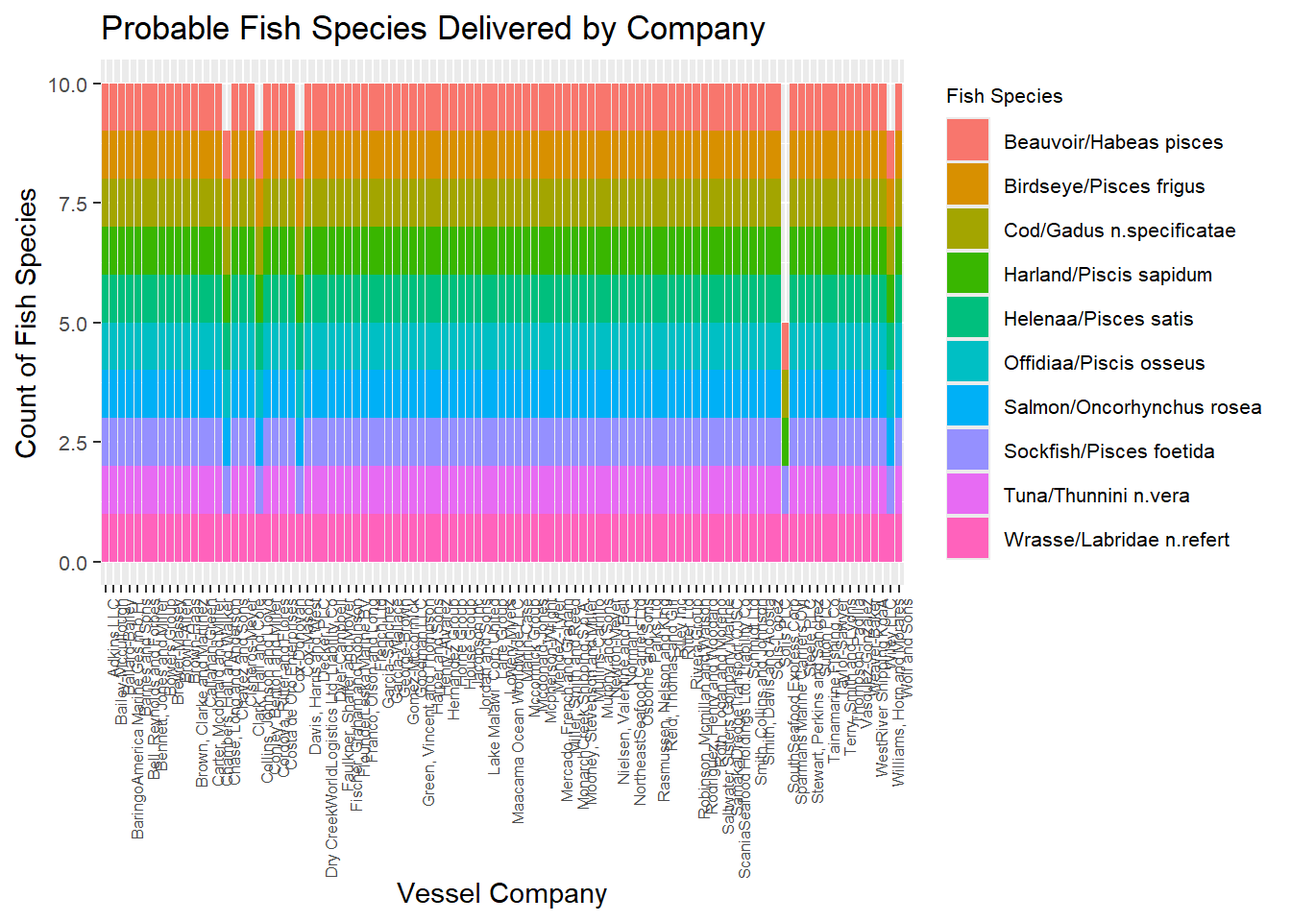
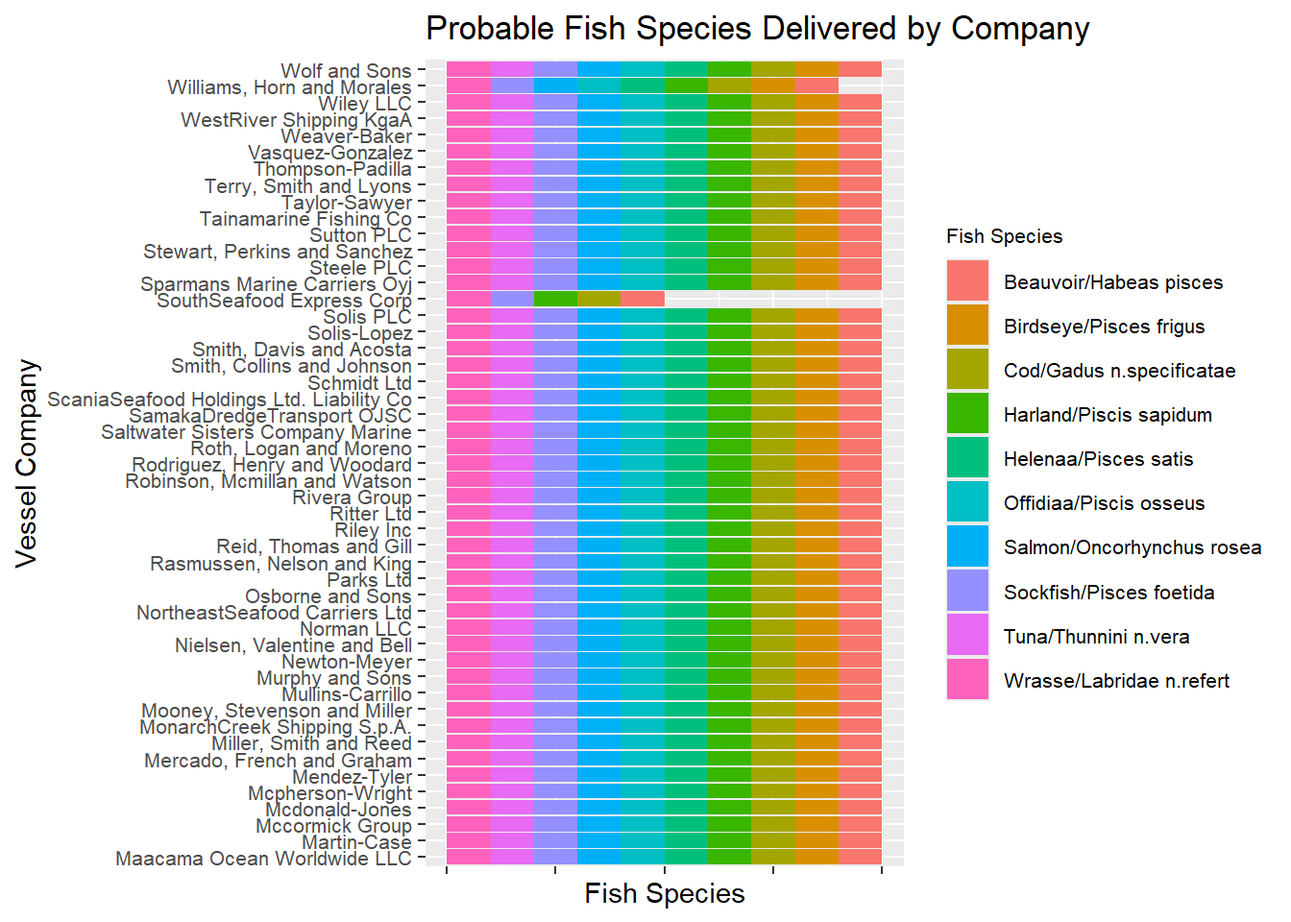
commit Take Home Ex03

diff --git a/_site/Take-home_Ex/Take-home_Ex03/Take-home_Ex03.html b/_site/Take-home_Ex/Take-home_Ex03/Take-home_Ex03.html
@@ -261,10 +261,16 @@ pre > code.sourceCode > span > a:first-child::before { text-decoration: underlin
   </ul></li>
   <li><a href="#visualisation" id="toc-visualisation" class="nav-link" data-scroll-target="#visualisation">3. Visualisation</a>
   <ul class="collapse">
-  <li><a href="#vessels-possible-delivery-content" id="toc-vessels-possible-delivery-content" class="nav-link" data-scroll-target="#vessels-possible-delivery-content">3.1.1 Vessels’ Possible Delivery Content</a></li>
-  <li><a href="#vessels-possible-delivery-content-by-season" id="toc-vessels-possible-delivery-content-by-season" class="nav-link" data-scroll-target="#vessels-possible-delivery-content-by-season">3.1.2 Vessels’ Possible Delivery Content By Season</a></li>
-  <li><a href="#transponder-ping-pattern" id="toc-transponder-ping-pattern" class="nav-link" data-scroll-target="#transponder-ping-pattern">3.2.1 Transponder Ping Pattern</a></li>
-  <li><a href="#catch-content-comparison" id="toc-catch-content-comparison" class="nav-link" data-scroll-target="#catch-content-comparison">3.2.2 Catch Content Comparison</a></li>
+  <li><a href="#vessels-possible-delivery-content" id="toc-vessels-possible-delivery-content" class="nav-link" data-scroll-target="#vessels-possible-delivery-content">3.1 Vessels’ Possible Delivery Content</a>
+  <ul class="collapse">
+  <li><a href="#delivery-content-fish-species" id="toc-delivery-content-fish-species" class="nav-link" data-scroll-target="#delivery-content-fish-species">3.1.1 Delivery Content (Fish Species)</a></li>
+  <li><a href="#seasonal-trend-in-delivery-content" id="toc-seasonal-trend-in-delivery-content" class="nav-link" data-scroll-target="#seasonal-trend-in-delivery-content">3.1.2 Seasonal Trend in Delivery Content</a></li>
+  </ul></li>
+  <li><a href="#vessel-movement-and-catch-content-deep-dive" id="toc-vessel-movement-and-catch-content-deep-dive" class="nav-link" data-scroll-target="#vessel-movement-and-catch-content-deep-dive">3.2 Vessel Movement and Catch Content Deep Dive</a>
+  <ul class="collapse">
+  <li><a href="#vessel-movement" id="toc-vessel-movement" class="nav-link" data-scroll-target="#vessel-movement">3.2.1 Vessel Movement</a></li>
+  <li><a href="#catch-content-deep-dive" id="toc-catch-content-deep-dive" class="nav-link" data-scroll-target="#catch-content-deep-dive">3.2.2 Catch Content Deep Dive</a></li>
+  </ul></li>
   </ul></li>
   <li><a href="#conclusion" id="toc-conclusion" class="nav-link" data-scroll-target="#conclusion">4. Conclusion</a></li>
   <li><a href="#references" id="toc-references" class="nav-link" data-scroll-target="#references">5. References</a></li>
@@ -300,7 +306,7 @@ pre > code.sourceCode > span > a:first-child::before { text-decoration: underlin
     <div>
     <div class="quarto-title-meta-heading">Modified</div>
     <div class="quarto-title-meta-contents">
-      <p class="date-modified">June 1, 2024</p>
+      <p class="date-modified">June 3, 2024</p>
     </div>
   </div>
     
@@ -316,11 +322,11 @@ pre > code.sourceCode > span > a:first-child::before { text-decoration: underlin
 <h1>1. Overview</h1>
 <section id="setting-the-scene" class="level2">
 <h2 class="anchored" data-anchor-id="setting-the-scene">1.1 Setting the scene</h2>
-<p>Vast Challenge also known as IEEE Visual Analytics Science and Technology (VAST) Challenge is Visual Analytics competition which aims to promote innovation in the field of data transformation and interactive visualization. Vast Challenge 2024 is based on the theme of detecting bias, illegal fishing behavior and temporal patterns in fishing industry in Oceanus, an island nation.</p>
+<p>Vast Challenge also known as IEEE Visual Analytics Science and Technology (VAST) Challenge is Visual Analytics competition which aims to promote innovation in the field of data transformation and interactive visualization. <a href="https://vast-challenge.github.io/2024/index.html">Vast Challenge 2024</a> is based on the theme of detecting bias, illegal fishing behavior and temporal patterns in fishing industry in Oceanus, an island nation.</p>
 </section>
 <section id="task" class="level2">
 <h2 class="anchored" data-anchor-id="task">1.2 Task</h2>
-<p>This exercise will be based on Mini-Challenge 2:<a href="https://vast-challenge.github.io/2024/MC2.html">MC2</a> of Vast Challenge 2024. The objective of the exercise is to help FishEye, a non-profit organization to detect and prevent illegal fishing behaviour, by performing geographic and temporal visual analysis. This exercise will aim to answer the following questions from MC2 of Vast Challenge through visual analytics:</p>
+<p>This exercise will be based on Mini-Challenge 2: <a href="https://vast-challenge.github.io/2024/MC2.html">MC2</a> of Vast Challenge 2024. The objective of the exercise is to help FishEye, a non-profit organization to detect and prevent illegal fishing behaviour, by performing geographic and temporal visual analysis. This exercise will aim to answer the following questions from MC2 of Vast Challenge through visual analytics:</p>
 <p><strong>Question 1:</strong></p>
 <div style="border: 2px dotted black; background-color: #e6e6fa; padding: 15px; margin: 10px 0; border-radius: 5px; display: flex; align-items: center;">
 <p><img src="fish_1826379.png" alt="Icon" style="width: 48px; height: 48px; margin-right: 10px;"> Develop visualizations that illustrate the inappropriate behavior of SouthSeafood Express Corp vessels. FishEye analysts have long wanted to better understand the flow of commercially caught fish through Oceanus’s many ports. But as they were loading data into CatchNet, they discovered they had purchased the wrong port records. They wanted to get the ship off-load records, but they instead got the port-exit records (essentially trucks/trains leaving the port area). Port exit records do not include which vessel that delivered the products. Given this limitation, develop a visualization system to associate vessels with their probable cargos. Which vessels deliver which products and when? What are the seasonal trends and anomalies in the port exit records?.</p>
@@ -339,7 +345,7 @@ pre > code.sourceCode > span > a:first-child::before { text-decoration: underlin
 <div class="cell">
 <details class="code-fold">
 <summary>Code</summary>
-<div class="sourceCode cell-code" id="cb1"><pre class="sourceCode r code-with-copy"><code class="sourceCode r"><span id="cb1-1"><a href="#cb1-1" aria-hidden="true" tabindex="-1"></a>pacman<span class="sc">::</span><span class="fu">p_load</span>(jsonlite,tidyverse,igraph,ggraph)</span></code><button title="Copy to Clipboard" class="code-copy-button"><i class="bi"></i></button></pre></div>
+<div class="sourceCode cell-code" id="cb1"><pre class="sourceCode r code-with-copy"><code class="sourceCode r"><span id="cb1-1"><a href="#cb1-1" aria-hidden="true" tabindex="-1"></a>pacman<span class="sc">::</span><span class="fu">p_load</span>(jsonlite,tidyverse,igraph,ggraph,patchwork)</span></code><button title="Copy to Clipboard" class="code-copy-button"><i class="bi"></i></button></pre></div>
 </details>
 </div>
 </section>
@@ -540,7 +546,9 @@ $ fish_species_present &lt;list&gt; &lt;NULL&gt;, &lt;NULL&gt;, &lt;NULL&gt;, &l
 <section id="visualisation" class="level1">
 <h1>3. Visualisation</h1>
 <section id="vessels-possible-delivery-content" class="level2">
-<h2 class="anchored" data-anchor-id="vessels-possible-delivery-content">3.1.1 Vessels’ Possible Delivery Content</h2>
+<h2 class="anchored" data-anchor-id="vessels-possible-delivery-content">3.1 Vessels’ Possible Delivery Content</h2>
+<section id="delivery-content-fish-species" class="level3">
+<h3 class="anchored" data-anchor-id="delivery-content-fish-species">3.1.1 Delivery Content (Fish Species)</h3>
 <p>First, we need to associate Cargo in delivery doc to fish species info using Transaction and Fish Nodes data.</p>
 <div class="cell">
 <details class="code-fold">
@@ -581,7 +589,7 @@ $ fish_species_present &lt;list&gt; &lt;NULL&gt;, &lt;NULL&gt;, &lt;NULL&gt;, &l
 <span id="cb12-4"><a href="#cb12-4" aria-hidden="true" tabindex="-1"></a>  <span class="fu">left_join</span>(N_Delivery_doc <span class="sc">%&gt;%</span> <span class="fu">select</span>(<span class="st">"deliver_date"</span>,<span class="st">"cargo_id"</span>, <span class="st">"qty_tons"</span>, <span class="st">"fish_id"</span>, <span class="st">"fish_species"</span>), <span class="at">by =</span> <span class="fu">c</span>(<span class="st">"date_only"</span> <span class="ot">=</span> <span class="st">"deliver_date"</span>))</span></code><button title="Copy to Clipboard" class="code-copy-button"><i class="bi"></i></button></pre></div>
 </details>
 </div>
-<p>Visualize which company possibly deliver which fish species.</p>
+<p>Visualize which company possibly delivers which fish species.</p>
 <div class="cell">
 <details class="code-fold">
 <summary>Code</summary>
@@ -589,17 +597,55 @@ $ fish_species_present &lt;list&gt; &lt;NULL&gt;, &lt;NULL&gt;, &lt;NULL&gt;, &l
 <span id="cb13-2"><a href="#cb13-2" aria-hidden="true" tabindex="-1"></a>distinct_species <span class="ot">&lt;-</span> Tping_to_Delivery <span class="sc">%&gt;%</span></span>
 <span id="cb13-3"><a href="#cb13-3" aria-hidden="true" tabindex="-1"></a>  <span class="fu">distinct</span>(vessel_company, fish_species) <span class="sc">%&gt;%</span> <span class="fu">na.omit</span>() <span class="sc">%&gt;%</span> <span class="fu">select</span>(vessel_company, fish_species)</span>
 <span id="cb13-4"><a href="#cb13-4" aria-hidden="true" tabindex="-1"></a></span>
-<span id="cb13-5"><a href="#cb13-5" aria-hidden="true" tabindex="-1"></a><span class="co"># Creating stacked bar chart</span></span>
-<span id="cb13-6"><a href="#cb13-6" aria-hidden="true" tabindex="-1"></a><span class="fu">ggplot</span>(distinct_species, <span class="fu">aes</span>(<span class="at">x =</span> vessel_company, <span class="at">fill =</span> fish_species)) <span class="sc">+</span></span>
-<span id="cb13-7"><a href="#cb13-7" aria-hidden="true" tabindex="-1"></a>  <span class="fu">geom_bar</span>(<span class="at">position =</span> <span class="st">"stack"</span>) <span class="sc">+</span></span>
-<span id="cb13-8"><a href="#cb13-8" aria-hidden="true" tabindex="-1"></a>  <span class="fu">labs</span>(<span class="at">title =</span> <span class="st">"Probable Fish Species Delivered by Company"</span>,</span>
-<span id="cb13-9"><a href="#cb13-9" aria-hidden="true" tabindex="-1"></a>       <span class="at">x =</span> <span class="st">"Vessel Company"</span>,</span>
-<span id="cb13-10"><a href="#cb13-10" aria-hidden="true" tabindex="-1"></a>       <span class="at">y =</span> <span class="st">"Count of Fish Species"</span>) <span class="sc">+</span></span>
-<span id="cb13-11"><a href="#cb13-11" aria-hidden="true" tabindex="-1"></a>  <span class="fu">theme</span>(<span class="at">axis.text.x =</span> <span class="fu">element_text</span>(<span class="at">angle =</span> <span class="dv">90</span>, <span class="at">hjust =</span> <span class="dv">1</span>, <span class="at">size =</span> <span class="dv">6</span>),</span>
-<span id="cb13-12"><a href="#cb13-12" aria-hidden="true" tabindex="-1"></a>        <span class="at">axis.text.y =</span> <span class="fu">element_text</span>(<span class="at">size =</span> <span class="dv">8</span>),</span>
-<span id="cb13-13"><a href="#cb13-13" aria-hidden="true" tabindex="-1"></a>        <span class="at">legend.text =</span> <span class="fu">element_text</span>(<span class="at">size =</span> <span class="dv">8</span>),</span>
-<span id="cb13-14"><a href="#cb13-14" aria-hidden="true" tabindex="-1"></a>        <span class="at">legend.title =</span> <span class="fu">element_text</span>(<span class="at">size =</span> <span class="dv">8</span>)) <span class="sc">+</span></span>
-<span id="cb13-15"><a href="#cb13-15" aria-hidden="true" tabindex="-1"></a>  <span class="fu">scale_fill_discrete</span>(<span class="at">name =</span> <span class="st">"Fish Species"</span>)</span></code><button title="Copy to Clipboard" class="code-copy-button"><i class="bi"></i></button></pre></div>
+<span id="cb13-5"><a href="#cb13-5" aria-hidden="true" tabindex="-1"></a><span class="co"># Filter to show only the first 50 companies alphabetically</span></span>
+<span id="cb13-6"><a href="#cb13-6" aria-hidden="true" tabindex="-1"></a>companies1 <span class="ot">&lt;-</span> distinct_species <span class="sc">%&gt;%</span></span>
+<span id="cb13-7"><a href="#cb13-7" aria-hidden="true" tabindex="-1"></a>  <span class="fu">distinct</span>(vessel_company) <span class="sc">%&gt;%</span></span>
+<span id="cb13-8"><a href="#cb13-8" aria-hidden="true" tabindex="-1"></a>  <span class="fu">arrange</span>(vessel_company) <span class="sc">%&gt;%</span></span>
+<span id="cb13-9"><a href="#cb13-9" aria-hidden="true" tabindex="-1"></a>  <span class="fu">head</span>(<span class="dv">50</span>) <span class="sc">%&gt;%</span></span>
+<span id="cb13-10"><a href="#cb13-10" aria-hidden="true" tabindex="-1"></a>  <span class="fu">pull</span>(vessel_company)</span>
+<span id="cb13-11"><a href="#cb13-11" aria-hidden="true" tabindex="-1"></a></span>
+<span id="cb13-12"><a href="#cb13-12" aria-hidden="true" tabindex="-1"></a><span class="co"># Filter the main dataframe to include only these companies</span></span>
+<span id="cb13-13"><a href="#cb13-13" aria-hidden="true" tabindex="-1"></a>companies1_data <span class="ot">&lt;-</span> distinct_species <span class="sc">%&gt;%</span></span>
+<span id="cb13-14"><a href="#cb13-14" aria-hidden="true" tabindex="-1"></a>  <span class="fu">filter</span>(vessel_company <span class="sc">%in%</span> companies1)</span>
+<span id="cb13-15"><a href="#cb13-15" aria-hidden="true" tabindex="-1"></a></span>
+<span id="cb13-16"><a href="#cb13-16" aria-hidden="true" tabindex="-1"></a><span class="co"># Creating stacked bar chart</span></span>
+<span id="cb13-17"><a href="#cb13-17" aria-hidden="true" tabindex="-1"></a>p1 <span class="ot">&lt;-</span> <span class="fu">ggplot</span>(companies1_data, <span class="fu">aes</span>(<span class="at">x =</span> vessel_company, <span class="at">fill =</span> fish_species)) <span class="sc">+</span></span>
+<span id="cb13-18"><a href="#cb13-18" aria-hidden="true" tabindex="-1"></a>  <span class="fu">geom_bar</span>(<span class="at">position =</span> <span class="st">"stack"</span>) <span class="sc">+</span></span>
+<span id="cb13-19"><a href="#cb13-19" aria-hidden="true" tabindex="-1"></a>  <span class="fu">labs</span>(<span class="at">title =</span> <span class="st">"Probable Fish Species Delivered by Company"</span>,</span>
+<span id="cb13-20"><a href="#cb13-20" aria-hidden="true" tabindex="-1"></a>       <span class="at">x =</span> <span class="st">"Vessel Company"</span>,</span>
+<span id="cb13-21"><a href="#cb13-21" aria-hidden="true" tabindex="-1"></a>       <span class="at">y =</span> <span class="st">"Fish Species"</span>) <span class="sc">+</span></span>
+<span id="cb13-22"><a href="#cb13-22" aria-hidden="true" tabindex="-1"></a>  <span class="fu">theme</span>(<span class="at">axis.text.x =</span> <span class="fu">element_blank</span>(),</span>
+<span id="cb13-23"><a href="#cb13-23" aria-hidden="true" tabindex="-1"></a>        <span class="at">axis.text.y =</span> <span class="fu">element_text</span>(<span class="at">size =</span> <span class="dv">8</span>),</span>
+<span id="cb13-24"><a href="#cb13-24" aria-hidden="true" tabindex="-1"></a>        <span class="at">legend.text =</span> <span class="fu">element_text</span>(<span class="at">size =</span> <span class="dv">8</span>),</span>
+<span id="cb13-25"><a href="#cb13-25" aria-hidden="true" tabindex="-1"></a>        <span class="at">legend.title =</span> <span class="fu">element_text</span>(<span class="at">size =</span> <span class="dv">8</span>)) <span class="sc">+</span></span>
+<span id="cb13-26"><a href="#cb13-26" aria-hidden="true" tabindex="-1"></a>  <span class="fu">scale_fill_discrete</span>(<span class="at">name =</span> <span class="st">"Fish Species"</span>) <span class="sc">+</span></span>
+<span id="cb13-27"><a href="#cb13-27" aria-hidden="true" tabindex="-1"></a>  <span class="fu">coord_flip</span>() </span>
+<span id="cb13-28"><a href="#cb13-28" aria-hidden="true" tabindex="-1"></a></span>
+<span id="cb13-29"><a href="#cb13-29" aria-hidden="true" tabindex="-1"></a><span class="co"># Get all company names excluding the first 50 alphabetically</span></span>
+<span id="cb13-30"><a href="#cb13-30" aria-hidden="true" tabindex="-1"></a>companies2 <span class="ot">&lt;-</span> distinct_species <span class="sc">%&gt;%</span></span>
+<span id="cb13-31"><a href="#cb13-31" aria-hidden="true" tabindex="-1"></a>  <span class="fu">distinct</span>(vessel_company) <span class="sc">%&gt;%</span></span>
+<span id="cb13-32"><a href="#cb13-32" aria-hidden="true" tabindex="-1"></a>  <span class="fu">arrange</span>(vessel_company) <span class="sc">%&gt;%</span></span>
+<span id="cb13-33"><a href="#cb13-33" aria-hidden="true" tabindex="-1"></a>  <span class="fu">slice</span>(<span class="dv">51</span><span class="sc">:</span><span class="fu">n</span>()) <span class="sc">%&gt;%</span></span>
+<span id="cb13-34"><a href="#cb13-34" aria-hidden="true" tabindex="-1"></a>  <span class="fu">pull</span>(vessel_company)</span>
+<span id="cb13-35"><a href="#cb13-35" aria-hidden="true" tabindex="-1"></a></span>
+<span id="cb13-36"><a href="#cb13-36" aria-hidden="true" tabindex="-1"></a><span class="co"># Filter the main dataframe to include only these companies</span></span>
+<span id="cb13-37"><a href="#cb13-37" aria-hidden="true" tabindex="-1"></a>companies2_data <span class="ot">&lt;-</span> distinct_species <span class="sc">%&gt;%</span></span>
+<span id="cb13-38"><a href="#cb13-38" aria-hidden="true" tabindex="-1"></a>  <span class="fu">filter</span>(vessel_company <span class="sc">%in%</span> companies2)</span>
+<span id="cb13-39"><a href="#cb13-39" aria-hidden="true" tabindex="-1"></a></span>
+<span id="cb13-40"><a href="#cb13-40" aria-hidden="true" tabindex="-1"></a><span class="co"># Creating stacked bar chart</span></span>
+<span id="cb13-41"><a href="#cb13-41" aria-hidden="true" tabindex="-1"></a>p2 <span class="ot">&lt;-</span> <span class="fu">ggplot</span>(companies2_data, <span class="fu">aes</span>(<span class="at">x =</span> vessel_company, <span class="at">fill =</span> fish_species)) <span class="sc">+</span></span>
+<span id="cb13-42"><a href="#cb13-42" aria-hidden="true" tabindex="-1"></a>  <span class="fu">geom_bar</span>(<span class="at">position =</span> <span class="st">"stack"</span>) <span class="sc">+</span></span>
+<span id="cb13-43"><a href="#cb13-43" aria-hidden="true" tabindex="-1"></a>  <span class="fu">labs</span>(<span class="at">title =</span> <span class="st">"Probable Fish Species Delivered by Company"</span>,</span>
+<span id="cb13-44"><a href="#cb13-44" aria-hidden="true" tabindex="-1"></a>       <span class="at">x =</span> <span class="st">"Vessel Company"</span>,</span>
+<span id="cb13-45"><a href="#cb13-45" aria-hidden="true" tabindex="-1"></a>       <span class="at">y =</span> <span class="st">"Fish Species"</span>) <span class="sc">+</span></span>
+<span id="cb13-46"><a href="#cb13-46" aria-hidden="true" tabindex="-1"></a>  <span class="fu">theme</span>(<span class="at">axis.text.x =</span> <span class="fu">element_blank</span>(),</span>
+<span id="cb13-47"><a href="#cb13-47" aria-hidden="true" tabindex="-1"></a>        <span class="at">axis.text.y =</span> <span class="fu">element_text</span>(<span class="at">size =</span> <span class="dv">8</span>),</span>
+<span id="cb13-48"><a href="#cb13-48" aria-hidden="true" tabindex="-1"></a>        <span class="at">legend.text =</span> <span class="fu">element_text</span>(<span class="at">size =</span> <span class="dv">8</span>),</span>
+<span id="cb13-49"><a href="#cb13-49" aria-hidden="true" tabindex="-1"></a>        <span class="at">legend.title =</span> <span class="fu">element_text</span>(<span class="at">size =</span> <span class="dv">8</span>)) <span class="sc">+</span></span>
+<span id="cb13-50"><a href="#cb13-50" aria-hidden="true" tabindex="-1"></a>  <span class="fu">scale_fill_discrete</span>(<span class="at">name =</span> <span class="st">"Fish Species"</span>) <span class="sc">+</span></span>
+<span id="cb13-51"><a href="#cb13-51" aria-hidden="true" tabindex="-1"></a>  <span class="fu">coord_flip</span>() </span>
+<span id="cb13-52"><a href="#cb13-52" aria-hidden="true" tabindex="-1"></a></span>
+<span id="cb13-53"><a href="#cb13-53" aria-hidden="true" tabindex="-1"></a>p2</span></code><button title="Copy to Clipboard" class="code-copy-button"><i class="bi"></i></button></pre></div>
 </details>
 <div class="cell-output-display">
 <div>
@@ -609,28 +655,10 @@ $ fish_species_present &lt;list&gt; &lt;NULL&gt;, &lt;NULL&gt;, &lt;NULL&gt;, &l
 </div>
 </div>
 </div>
-</section>
-<section id="vessels-possible-delivery-content-by-season" class="level2">
-<h2 class="anchored" data-anchor-id="vessels-possible-delivery-content-by-season">3.1.2 Vessels’ Possible Delivery Content By Season</h2>
-</section>
-<section id="transponder-ping-pattern" class="level2">
-<h2 class="anchored" data-anchor-id="transponder-ping-pattern">3.2.1 Transponder Ping Pattern</h2>
-<p>Transponder ping data can provide the locations the vessels from shipping company has been to and give insight whether vessels have visited non-fishing areas. In this section, we will focus only on fishing vessels to understand fishing activities.</p>
-<p>Plot a network graph showing all the shipping vessel movements by different companies</p>
 <div class="cell">
 <details class="code-fold">
 <summary>Code</summary>
-<div class="sourceCode cell-code" id="cb14"><pre class="sourceCode r code-with-copy"><code class="sourceCode r"><span id="cb14-1"><a href="#cb14-1" aria-hidden="true" tabindex="-1"></a>edges <span class="ot">&lt;-</span> <span class="fu">data.frame</span>(</span>
-<span id="cb14-2"><a href="#cb14-2" aria-hidden="true" tabindex="-1"></a>  <span class="at">from =</span> E_Tping_Fishing<span class="sc">$</span>vessel_company,</span>
-<span id="cb14-3"><a href="#cb14-3" aria-hidden="true" tabindex="-1"></a>  <span class="at">to =</span> E_Tping_Fishing<span class="sc">$</span>source</span>
-<span id="cb14-4"><a href="#cb14-4" aria-hidden="true" tabindex="-1"></a>)</span>
-<span id="cb14-5"><a href="#cb14-5" aria-hidden="true" tabindex="-1"></a></span>
-<span id="cb14-6"><a href="#cb14-6" aria-hidden="true" tabindex="-1"></a><span class="co"># Create a graph object</span></span>
-<span id="cb14-7"><a href="#cb14-7" aria-hidden="true" tabindex="-1"></a>graph <span class="ot">&lt;-</span> <span class="fu">graph_from_data_frame</span>(edges, <span class="at">directed =</span> <span class="cn">FALSE</span>)</span>
-<span id="cb14-8"><a href="#cb14-8" aria-hidden="true" tabindex="-1"></a></span>
-<span id="cb14-9"><a href="#cb14-9" aria-hidden="true" tabindex="-1"></a><span class="co"># Plot the network</span></span>
-<span id="cb14-10"><a href="#cb14-10" aria-hidden="true" tabindex="-1"></a><span class="fu">plot</span>(graph, <span class="at">vertex.size=</span><span class="dv">10</span>, <span class="at">vertex.label.cex=</span><span class="fl">0.8</span>, <span class="at">vertex.label.color=</span><span class="st">"black"</span>,</span>
-<span id="cb14-11"><a href="#cb14-11" aria-hidden="true" tabindex="-1"></a>     <span class="at">main=</span><span class="st">"Network Visualization of Vessel Movement"</span>)</span></code><button title="Copy to Clipboard" class="code-copy-button"><i class="bi"></i></button></pre></div>
+<div class="sourceCode cell-code" id="cb14"><pre class="sourceCode r code-with-copy"><code class="sourceCode r"><span id="cb14-1"><a href="#cb14-1" aria-hidden="true" tabindex="-1"></a>p1</span></code><button title="Copy to Clipboard" class="code-copy-button"><i class="bi"></i></button></pre></div>
 </details>
 <div class="cell-output-display">
 <div>
@@ -640,35 +668,31 @@ $ fish_species_present &lt;list&gt; &lt;NULL&gt;, &lt;NULL&gt;, &lt;NULL&gt;, &l
 </div>
 </div>
 </div>
-<p>Zoom into SouthSeafood Express Corp’s vessel movement to uncover any suspicious behavior.</p>
+</section>
+<section id="seasonal-trend-in-delivery-content" class="level3">
+<h3 class="anchored" data-anchor-id="seasonal-trend-in-delivery-content">3.1.2 Seasonal Trend in Delivery Content</h3>
+</section>
+</section>
+<section id="vessel-movement-and-catch-content-deep-dive" class="level2">
+<h2 class="anchored" data-anchor-id="vessel-movement-and-catch-content-deep-dive">3.2 Vessel Movement and Catch Content Deep Dive</h2>
+<section id="vessel-movement" class="level3">
+<h3 class="anchored" data-anchor-id="vessel-movement">3.2.1 Vessel Movement</h3>
+<p>Transponder ping data can provide the locations the vessels from shipping company has been to and give insight whether vessels have visited non-fishing areas. In this section, we will focus only on fishing vessels to understand fishing activities.</p>
+<p>Plot a network graph showing all the shipping vessel movements by different companies</p>
 <div class="cell">
 <details class="code-fold">
 <summary>Code</summary>
-<div class="sourceCode cell-code" id="cb15"><pre class="sourceCode r code-with-copy"><code class="sourceCode r"><span id="cb15-1"><a href="#cb15-1" aria-hidden="true" tabindex="-1"></a><span class="co"># Filter SouthSeafood Express Corp Vessels Only</span></span>
-<span id="cb15-2"><a href="#cb15-2" aria-hidden="true" tabindex="-1"></a>E_Tping_Fishing_SS <span class="ot">&lt;-</span> E_Tping_Fishing <span class="sc">%&gt;%</span></span>
-<span id="cb15-3"><a href="#cb15-3" aria-hidden="true" tabindex="-1"></a>  <span class="fu">filter</span>(vessel_company <span class="sc">==</span> <span class="st">"SouthSeafood Express Corp"</span>)</span>
-<span id="cb15-4"><a href="#cb15-4" aria-hidden="true" tabindex="-1"></a></span>
-<span id="cb15-5"><a href="#cb15-5" aria-hidden="true" tabindex="-1"></a>edges_ss <span class="ot">&lt;-</span> <span class="fu">data.frame</span>(</span>
-<span id="cb15-6"><a href="#cb15-6" aria-hidden="true" tabindex="-1"></a>  <span class="at">from =</span> E_Tping_Fishing_SS<span class="sc">$</span>vessel_company,</span>
-<span id="cb15-7"><a href="#cb15-7" aria-hidden="true" tabindex="-1"></a>  <span class="at">to =</span> E_Tping_Fishing_SS<span class="sc">$</span>source</span>
-<span id="cb15-8"><a href="#cb15-8" aria-hidden="true" tabindex="-1"></a>)</span>
-<span id="cb15-9"><a href="#cb15-9" aria-hidden="true" tabindex="-1"></a></span>
-<span id="cb15-10"><a href="#cb15-10" aria-hidden="true" tabindex="-1"></a><span class="co"># Creating graph object</span></span>
-<span id="cb15-11"><a href="#cb15-11" aria-hidden="true" tabindex="-1"></a>graph_ss <span class="ot">&lt;-</span> <span class="fu">graph_from_data_frame</span>(edges_ss, <span class="at">directed =</span> <span class="cn">FALSE</span>)</span>
-<span id="cb15-12"><a href="#cb15-12" aria-hidden="true" tabindex="-1"></a></span>
-<span id="cb15-13"><a href="#cb15-13" aria-hidden="true" tabindex="-1"></a></span>
-<span id="cb15-14"><a href="#cb15-14" aria-hidden="true" tabindex="-1"></a><span class="co"># Distinguish between boats, SouthSeafood, and other companies</span></span>
-<span id="cb15-15"><a href="#cb15-15" aria-hidden="true" tabindex="-1"></a><span class="fu">V</span>(graph_ss)<span class="sc">$</span>type <span class="ot">&lt;-</span> <span class="fu">ifelse</span>(<span class="fu">V</span>(graph_ss)<span class="sc">$</span>name <span class="sc">==</span> <span class="st">"SouthSeafood Express Corp"</span>, <span class="st">"southseafood"</span>, </span>
-<span id="cb15-16"><a href="#cb15-16" aria-hidden="true" tabindex="-1"></a>                        <span class="fu">ifelse</span>(<span class="fu">V</span>(graph)<span class="sc">$</span>name <span class="sc">%in%</span> E_Tping_Fishing_SS<span class="sc">$</span>vessel_id, <span class="st">"boat"</span>, <span class="st">"location"</span>))</span>
-<span id="cb15-17"><a href="#cb15-17" aria-hidden="true" tabindex="-1"></a></span>
-<span id="cb15-18"><a href="#cb15-18" aria-hidden="true" tabindex="-1"></a><span class="co"># Plot the network with ggraph</span></span>
-<span id="cb15-19"><a href="#cb15-19" aria-hidden="true" tabindex="-1"></a><span class="fu">ggraph</span>(graph_ss, <span class="at">layout =</span> <span class="st">'fr'</span>) <span class="sc">+</span>  </span>
-<span id="cb15-20"><a href="#cb15-20" aria-hidden="true" tabindex="-1"></a>  <span class="fu">geom_edge_link</span>(<span class="fu">aes</span>(<span class="at">width =</span> <span class="dv">1</span>), <span class="at">edge_colour =</span> <span class="st">"grey"</span>) <span class="sc">+</span> </span>
-<span id="cb15-21"><a href="#cb15-21" aria-hidden="true" tabindex="-1"></a>  <span class="fu">geom_node_point</span>(<span class="fu">aes</span>(<span class="at">color =</span> type), <span class="at">size =</span> <span class="dv">5</span>) <span class="sc">+</span> </span>
-<span id="cb15-22"><a href="#cb15-22" aria-hidden="true" tabindex="-1"></a>  <span class="fu">geom_node_text</span>(<span class="fu">aes</span>(<span class="at">label =</span> name), <span class="at">repel =</span> <span class="cn">TRUE</span>, <span class="at">size =</span> <span class="dv">3</span>, <span class="at">color =</span> <span class="st">"black"</span>) <span class="sc">+</span>  </span>
-<span id="cb15-23"><a href="#cb15-23" aria-hidden="true" tabindex="-1"></a>  <span class="fu">scale_color_manual</span>(<span class="at">values =</span> <span class="fu">c</span>(<span class="st">"boat"</span> <span class="ot">=</span> <span class="st">"orange"</span>, <span class="st">"location"</span> <span class="ot">=</span> <span class="st">"blue"</span>, <span class="st">"southseafood"</span> <span class="ot">=</span> <span class="st">"red"</span>)) <span class="sc">+</span> </span>
-<span id="cb15-24"><a href="#cb15-24" aria-hidden="true" tabindex="-1"></a>  <span class="fu">theme_void</span>() <span class="sc">+</span>  </span>
-<span id="cb15-25"><a href="#cb15-25" aria-hidden="true" tabindex="-1"></a>  <span class="fu">labs</span>(<span class="at">title =</span> <span class="st">"Network Visualization of SouthSeafood Express Corp Vessel Movement"</span>)  </span></code><button title="Copy to Clipboard" class="code-copy-button"><i class="bi"></i></button></pre></div>
+<div class="sourceCode cell-code" id="cb15"><pre class="sourceCode r code-with-copy"><code class="sourceCode r"><span id="cb15-1"><a href="#cb15-1" aria-hidden="true" tabindex="-1"></a>edges <span class="ot">&lt;-</span> <span class="fu">data.frame</span>(</span>
+<span id="cb15-2"><a href="#cb15-2" aria-hidden="true" tabindex="-1"></a>  <span class="at">from =</span> E_Tping_Fishing<span class="sc">$</span>vessel_company,</span>
+<span id="cb15-3"><a href="#cb15-3" aria-hidden="true" tabindex="-1"></a>  <span class="at">to =</span> E_Tping_Fishing<span class="sc">$</span>source</span>
+<span id="cb15-4"><a href="#cb15-4" aria-hidden="true" tabindex="-1"></a>)</span>
+<span id="cb15-5"><a href="#cb15-5" aria-hidden="true" tabindex="-1"></a></span>
+<span id="cb15-6"><a href="#cb15-6" aria-hidden="true" tabindex="-1"></a><span class="co"># Create a graph object</span></span>
+<span id="cb15-7"><a href="#cb15-7" aria-hidden="true" tabindex="-1"></a>graph <span class="ot">&lt;-</span> <span class="fu">graph_from_data_frame</span>(edges, <span class="at">directed =</span> <span class="cn">FALSE</span>)</span>
+<span id="cb15-8"><a href="#cb15-8" aria-hidden="true" tabindex="-1"></a></span>
+<span id="cb15-9"><a href="#cb15-9" aria-hidden="true" tabindex="-1"></a><span class="co"># Plot the network</span></span>
+<span id="cb15-10"><a href="#cb15-10" aria-hidden="true" tabindex="-1"></a><span class="fu">plot</span>(graph, <span class="at">vertex.size=</span><span class="dv">10</span>, <span class="at">vertex.label.cex=</span><span class="fl">0.8</span>, <span class="at">vertex.label.color=</span><span class="st">"black"</span>,</span>
+<span id="cb15-11"><a href="#cb15-11" aria-hidden="true" tabindex="-1"></a>     <span class="at">main=</span><span class="st">"Network Visualization of Vessel Movement"</span>)</span></code><button title="Copy to Clipboard" class="code-copy-button"><i class="bi"></i></button></pre></div>
 </details>
 <div class="cell-output-display">
 <div>
@@ -678,9 +702,48 @@ $ fish_species_present &lt;list&gt; &lt;NULL&gt;, &lt;NULL&gt;, &lt;NULL&gt;, &l
 </div>
 </div>
 </div>
+<p>Zoom into SouthSeafood Express Corp’s vessel movement to uncover any suspicious behavior.</p>
+<div class="cell">
+<details class="code-fold">
+<summary>Code</summary>
+<div class="sourceCode cell-code" id="cb16"><pre class="sourceCode r code-with-copy"><code class="sourceCode r"><span id="cb16-1"><a href="#cb16-1" aria-hidden="true" tabindex="-1"></a><span class="co"># Filter SouthSeafood Express Corp Vessels Only</span></span>
+<span id="cb16-2"><a href="#cb16-2" aria-hidden="true" tabindex="-1"></a>E_Tping_Fishing_SS <span class="ot">&lt;-</span> E_Tping_Fishing <span class="sc">%&gt;%</span></span>
+<span id="cb16-3"><a href="#cb16-3" aria-hidden="true" tabindex="-1"></a>  <span class="fu">filter</span>(vessel_company <span class="sc">==</span> <span class="st">"SouthSeafood Express Corp"</span>)</span>
+<span id="cb16-4"><a href="#cb16-4" aria-hidden="true" tabindex="-1"></a></span>
+<span id="cb16-5"><a href="#cb16-5" aria-hidden="true" tabindex="-1"></a>edges_ss <span class="ot">&lt;-</span> <span class="fu">data.frame</span>(</span>
+<span id="cb16-6"><a href="#cb16-6" aria-hidden="true" tabindex="-1"></a>  <span class="at">from =</span> E_Tping_Fishing_SS<span class="sc">$</span>vessel_company,</span>
+<span id="cb16-7"><a href="#cb16-7" aria-hidden="true" tabindex="-1"></a>  <span class="at">to =</span> E_Tping_Fishing_SS<span class="sc">$</span>source</span>
+<span id="cb16-8"><a href="#cb16-8" aria-hidden="true" tabindex="-1"></a>)</span>
+<span id="cb16-9"><a href="#cb16-9" aria-hidden="true" tabindex="-1"></a></span>
+<span id="cb16-10"><a href="#cb16-10" aria-hidden="true" tabindex="-1"></a><span class="co"># Creating graph object</span></span>
+<span id="cb16-11"><a href="#cb16-11" aria-hidden="true" tabindex="-1"></a>graph_ss <span class="ot">&lt;-</span> <span class="fu">graph_from_data_frame</span>(edges_ss, <span class="at">directed =</span> <span class="cn">FALSE</span>)</span>
+<span id="cb16-12"><a href="#cb16-12" aria-hidden="true" tabindex="-1"></a></span>
+<span id="cb16-13"><a href="#cb16-13" aria-hidden="true" tabindex="-1"></a></span>
+<span id="cb16-14"><a href="#cb16-14" aria-hidden="true" tabindex="-1"></a><span class="co"># Distinguish between boats, SouthSeafood, and other companies</span></span>
+<span id="cb16-15"><a href="#cb16-15" aria-hidden="true" tabindex="-1"></a><span class="fu">V</span>(graph_ss)<span class="sc">$</span>type <span class="ot">&lt;-</span> <span class="fu">ifelse</span>(<span class="fu">V</span>(graph_ss)<span class="sc">$</span>name <span class="sc">==</span> <span class="st">"SouthSeafood Express Corp"</span>, <span class="st">"southseafood"</span>, </span>
+<span id="cb16-16"><a href="#cb16-16" aria-hidden="true" tabindex="-1"></a>                        <span class="fu">ifelse</span>(<span class="fu">V</span>(graph)<span class="sc">$</span>name <span class="sc">%in%</span> E_Tping_Fishing_SS<span class="sc">$</span>vessel_id, <span class="st">"boat"</span>, <span class="st">"location"</span>))</span>
+<span id="cb16-17"><a href="#cb16-17" aria-hidden="true" tabindex="-1"></a></span>
+<span id="cb16-18"><a href="#cb16-18" aria-hidden="true" tabindex="-1"></a><span class="co"># Plot the network with ggraph</span></span>
+<span id="cb16-19"><a href="#cb16-19" aria-hidden="true" tabindex="-1"></a><span class="fu">ggraph</span>(graph_ss, <span class="at">layout =</span> <span class="st">'fr'</span>) <span class="sc">+</span>  </span>
+<span id="cb16-20"><a href="#cb16-20" aria-hidden="true" tabindex="-1"></a>  <span class="fu">geom_edge_link</span>(<span class="fu">aes</span>(<span class="at">width =</span> <span class="dv">1</span>), <span class="at">edge_colour =</span> <span class="st">"grey"</span>) <span class="sc">+</span> </span>
+<span id="cb16-21"><a href="#cb16-21" aria-hidden="true" tabindex="-1"></a>  <span class="fu">geom_node_point</span>(<span class="fu">aes</span>(<span class="at">color =</span> type), <span class="at">size =</span> <span class="dv">5</span>) <span class="sc">+</span> </span>
+<span id="cb16-22"><a href="#cb16-22" aria-hidden="true" tabindex="-1"></a>  <span class="fu">geom_node_text</span>(<span class="fu">aes</span>(<span class="at">label =</span> name), <span class="at">repel =</span> <span class="cn">TRUE</span>, <span class="at">size =</span> <span class="dv">3</span>, <span class="at">color =</span> <span class="st">"black"</span>) <span class="sc">+</span>  </span>
+<span id="cb16-23"><a href="#cb16-23" aria-hidden="true" tabindex="-1"></a>  <span class="fu">scale_color_manual</span>(<span class="at">values =</span> <span class="fu">c</span>(<span class="st">"boat"</span> <span class="ot">=</span> <span class="st">"orange"</span>, <span class="st">"location"</span> <span class="ot">=</span> <span class="st">"blue"</span>, <span class="st">"southseafood"</span> <span class="ot">=</span> <span class="st">"red"</span>)) <span class="sc">+</span> </span>
+<span id="cb16-24"><a href="#cb16-24" aria-hidden="true" tabindex="-1"></a>  <span class="fu">theme_void</span>() <span class="sc">+</span>  </span>
+<span id="cb16-25"><a href="#cb16-25" aria-hidden="true" tabindex="-1"></a>  <span class="fu">labs</span>(<span class="at">title =</span> <span class="st">"Network Visualization of SouthSeafood Express Corp Vessel Movement"</span>)  </span></code><button title="Copy to Clipboard" class="code-copy-button"><i class="bi"></i></button></pre></div>
+</details>
+<div class="cell-output-display">
+<div>
+<figure class="figure">
+<p><img src="Take-home_Ex03_files/figure-html/unnamed-chunk-14-1.png" class="img-fluid figure-img" width="672"></p>
+</figure>
+</div>
+</div>
+</div>
 </section>
-<section id="catch-content-comparison" class="level2">
-<h2 class="anchored" data-anchor-id="catch-content-comparison">3.2.2 Catch Content Comparison</h2>
+<section id="catch-content-deep-dive" class="level3">
+<h3 class="anchored" data-anchor-id="catch-content-deep-dive">3.2.2 Catch Content Deep Dive</h3>
+</section>
 </section>
 </section>
 <section id="conclusion" class="level1">
@@ -688,7 +751,7 @@ $ fish_species_present &lt;list&gt; &lt;NULL&gt;, &lt;NULL&gt;, &lt;NULL&gt;, &l
 </section>
 <section id="references" class="level1">
 <h1>5. References</h1>
-<p><a href="https://isss608-ay2023-24apr.netlify.app/vast/kickstarter2"><code>Working with Graph Data</code></a></p>
+<p><a href="https://isss608-ay2023-24apr.netlify.app/vast/kickstarter2">Working with Graph Data</a></p>
 
 
 </section>
